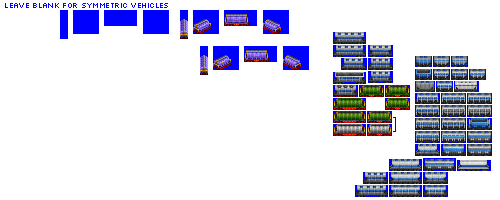
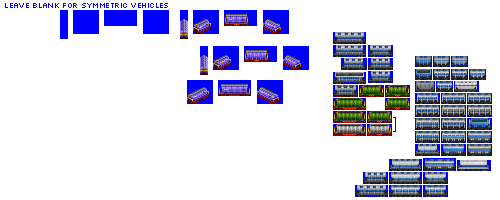
Change: tweak appearance of type 1 swing roof hopper; WIP on type 2 appearance

Changed region(s): [[0.36, 0.39, 0.57, 0.54]]

diff --git a/src/vehicles/pony/swing_roof_hopper_cars_type_2_pony.py b/src/vehicles/pony/swing_roof_hopper_cars_type_2_pony.py
@@ -8,28 +8,28 @@ def main(**kwargs):
 
     model_def = ModelDef(
         schema_name="CoveredHopperCarSwingRoofType2",
-        base_numeric_id=16900,
+        base_numeric_id=26230,
         gen=5,
         subtype="B",
-        sprites_complete=False,
+        sprites_complete=True,
     )
 
     model_def.add_unit_def(
-        unit_cls_name="FreightCarUnit", chassis="2_axle_filled_greebled_24px"
+        unit_cls_name="FreightCarUnit", chassis="2_axle_1cc_filled_hoppers_24px"
     )
 
     result.append(model_def)
 
     model_def = ModelDef(
         schema_name="CoveredHopperCarSwingRoofType2",
-        base_numeric_id=16940,
+        base_numeric_id=26240,
         gen=5,
         subtype="C",
-        sprites_complete=False,
+        sprites_complete=True,
     )
 
     model_def.add_unit_def(
-        unit_cls_name="FreightCarUnit", chassis="4_axle_filled_greebled_32px"
+        unit_cls_name="FreightCarUnit", chassis="4_axle_1cc_filled_hoppers_32px"
     )
 
     result.append(model_def)

diff --git a/src/vehicles/pony/swing_roof_hopper_cars_type_3_pony.py b/src/vehicles/pony/swing_roof_hopper_cars_type_3_pony.py
@@ -8,10 +8,10 @@ def main(**kwargs):
 
     model_def = ModelDef(
         schema_name="CoveredHopperCarSwingRoofType3",
-        base_numeric_id=26230,
+        base_numeric_id=18760,
         gen=5,
         subtype="B",
-        sprites_complete=True,
+        sprites_complete=False,
     )
 
     model_def.add_unit_def(
@@ -22,10 +22,10 @@ def main(**kwargs):
 
     model_def = ModelDef(
         schema_name="CoveredHopperCarSwingRoofType3",
-        base_numeric_id=26240,
+        base_numeric_id=18780,
         gen=5,
         subtype="C",
-        sprites_complete=True,
+        sprites_complete=False,
     )
 
     model_def.add_unit_def(
